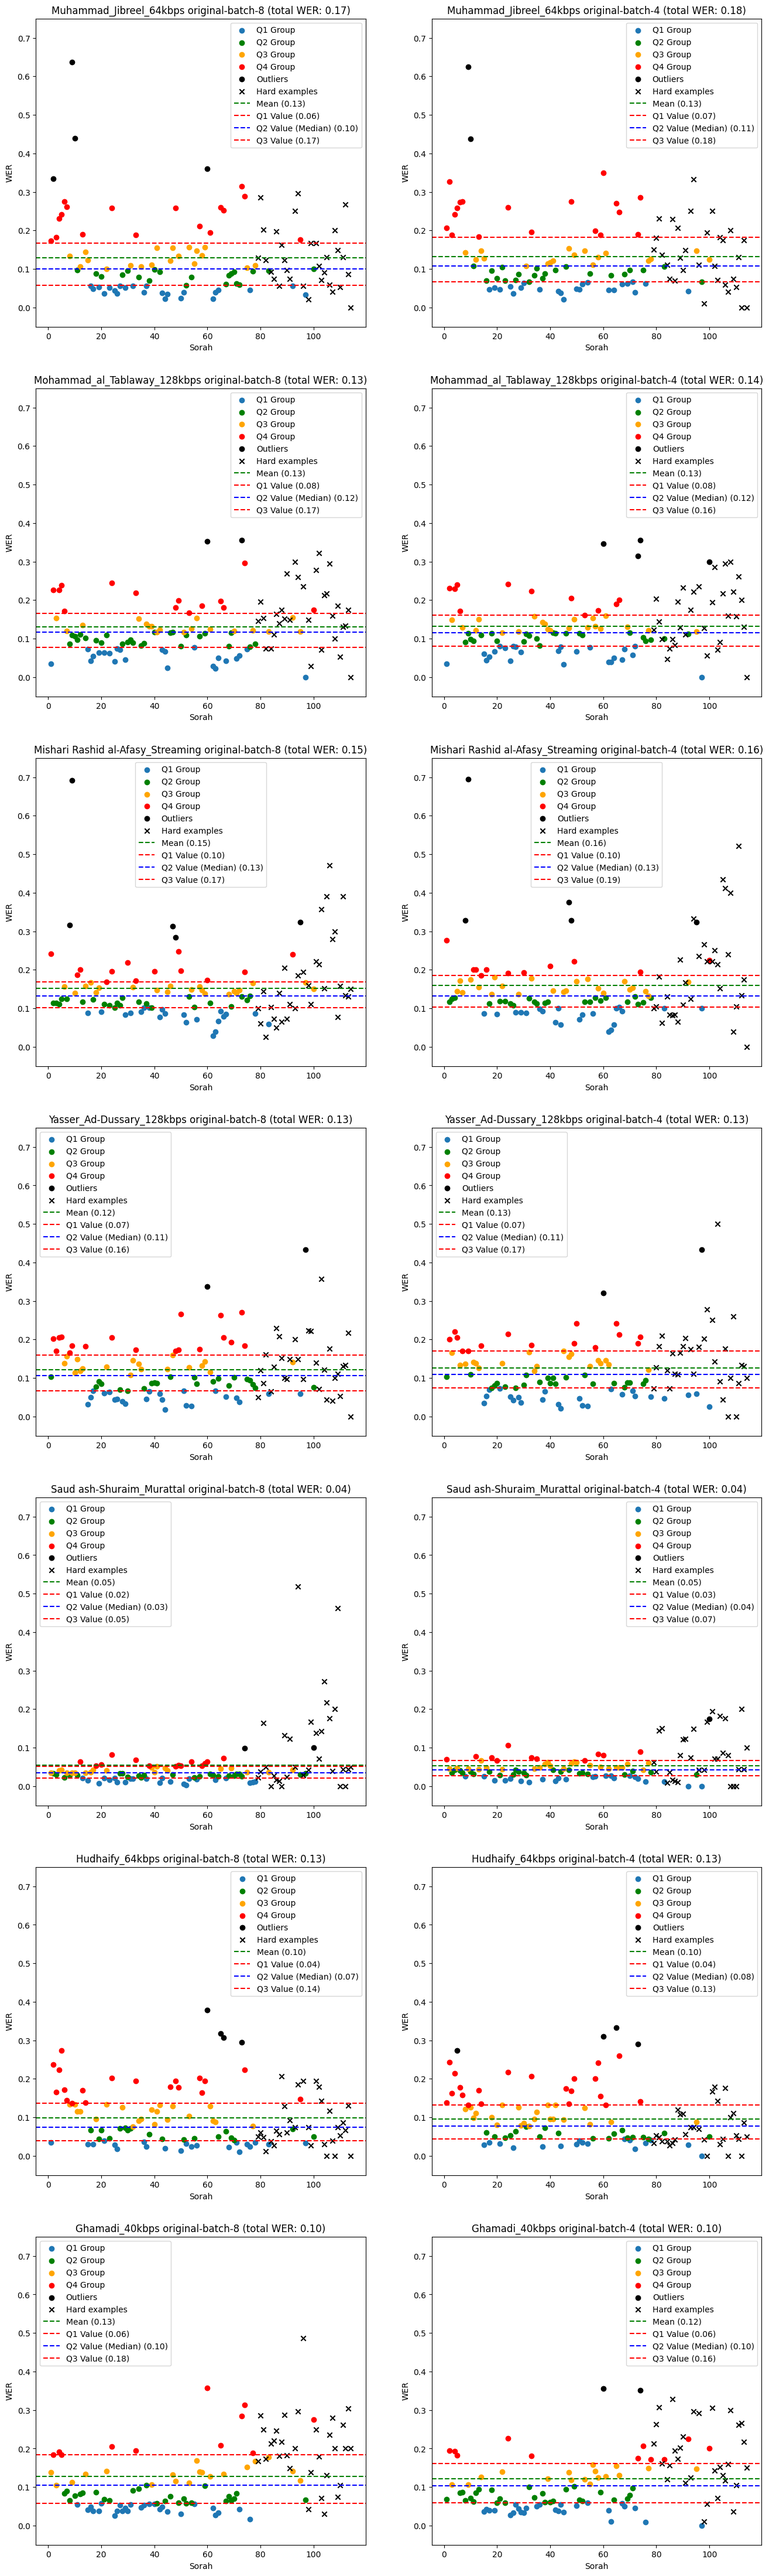
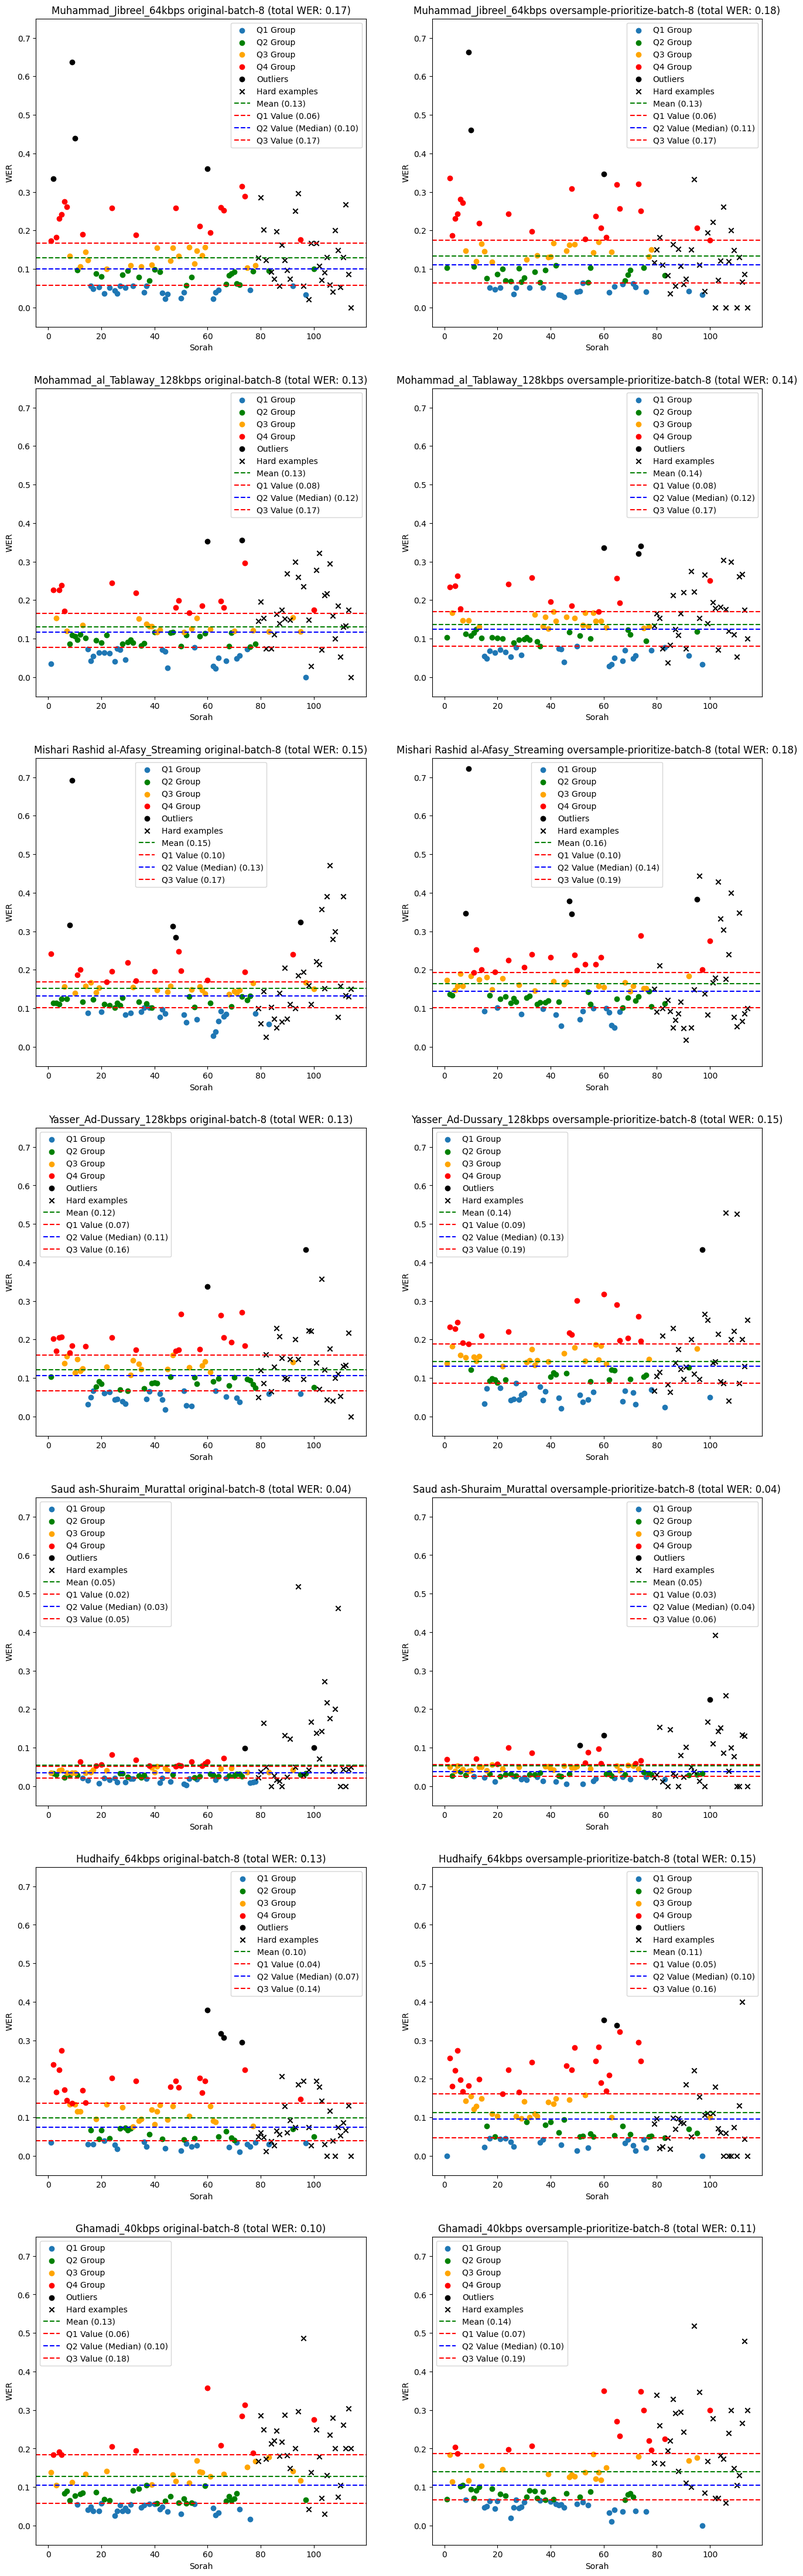
exp-8a: made required changes
* added hard-example sorah names
* combined WER visulizations for the oversampling technique

diff --git a/experiments/08A.md b/experiments/08A.md
@@ -1,6 +1,10 @@
 # Experiment 8: To Oversample or Not To Oversample
 
-Auther: Omar Tarek
+_Sat May 25 07:09:04 PM EEST 2024_
+
+Author: Omar Tarek
+
+Signed-off: Abdulrhmn Ghanem
 
 ## Objective
 
@@ -28,7 +32,39 @@ Auther: Omar Tarek
 
     (any sorah that has WER above Q3 + 1.5 * IQR)
 
-* Only sorahs **from 77 to 114** have been considered (not all hard examples). So whenever hard examples are mentioned in this document it means hard examples **from 77 to 114 only**.
+* Only sorahs **from 77 to 114** have been considered (not all hard examples). So whenever hard examples are mentioned in this document it means hard examples **from 77 to 114 only**. In this experiment the hard examples are:
+
+- النازعات
+- عبس
+- التكوير
+- الإنفطار
+- الإنشقاق
+- البروج
+- الطارق
+- الأعلى
+- الغاشية
+- الفجر
+- البلد
+- الشمس
+- الضحى
+- الشرح
+- العلق
+- البينة
+- الزلزلة
+- القارعة
+- التكاثر
+- العصر
+- الهمزة
+- الفيل
+- قريش
+- الماعون
+- الكوثر
+- الكافرون
+- النصر
+- المسد
+- الإخلاص
+- الفلق
+- الناس
 
 * Here is [the notebook](https://colab.research.google.com/drive/1552xrPwDXR2n2V_36MhTNph1foPHlGyA?usp=sharing) used for identifying hard examples **from 77 to 114**.
 
@@ -95,7 +131,7 @@ Auther: Omar Tarek
 
 * All of those tranformations are **deterministic** except **PitchShift** (it has a range of values **[-2, 3]**).
 
-* Augmentation is done using [audiomentations library [2]]("https://github.com/iver56/audiomentations).
+* Augmentation is done using [**audiomentations library** [2]]("https://github.com/iver56/audiomentations).
 
 
 ### 6. Use a smaller batch size.
@@ -157,7 +193,25 @@ Auther: Omar Tarek
     <span style="color: #888888;"><em>Figure 08A3</em>: Visualization of oversampling the hard examples compared to the normal training strategy</span>
 </p>
 
+<p align="center">
+    <img src="./media/08A4.png" alt="Visualization of oversampling the hard examples compared to the normal training strategy (all sheikhs combined)">
+</p>
+
+<p align="center">
+    <span style="color: #888888;"><em>Figure 08A4</em>: Visualization of oversampling the hard examples compared to the normal training strategy (all sheikhs combined)</span>
+</p>
+
+
 * Oversampling hard examples reduced the WER of those examples without affecting the overall WER results.
+
+<p align="center">
+    <img src="./media/08A5.png" alt="Visualization of the average WER of all sheikhs comparing the oversampling technique (After) with the normal training strategy (Before)">
+</p>
+
+<p align="center">
+    <span style="color: #888888;"><em>Figure 08A5</em>: Visualization of the average WER of all sheikhs comparing the oversampling technique (After) with the normal training strategy (Before)</span>
+</p>
+
 
 * Here is [a notebook](https://colab.research.google.com/drive/1JtKyiKnXlysP5bKaX8cgkl756ZXfcNmw?usp=sharing) that represnts the WER raw data.
 
@@ -165,11 +219,11 @@ Auther: Omar Tarek
 
 
 <p align="center">
-    <img src="./media/08A4.png" alt="Visualization of oversampling and prioritizing the hard examples compared to the normal training strategy">
+    <img src="./media/08A6.png" alt="Visualization of oversampling and prioritizing the hard examples compared to the normal training strategy">
 </p>
 
 <p align="center">
-    <span style="color: #888888;"><em>Figure 08A4</em>: Visualization of oversampling and prioritizing the hard examples compared to the normal training strategy</span>
+    <span style="color: #888888;"><em>Figure 08A6</em>: Visualization of oversampling and prioritizing the hard examples compared to the normal training strategy</span>
 </p>
 
 * **Adding prioritization** to the oversampling technique **made things worse**, by raising the WER of the overall test set and **vanishing the improvements** of WER of those hard examples that were achieved when using the oversampling technique **solely**.
@@ -179,11 +233,11 @@ Auther: Omar Tarek
 ### 5. Augment only the hard examples.
 
 <p align="center">
-    <img src="./media/08A5.png" alt="Visualization of augmenting the hard examples compared to the normal training strategy">
+    <img src="./media/08A7.png" alt="Visualization of augmenting the hard examples compared to the normal training strategy">
 </p>
 
 <p align="center">
-    <span style="color: #888888;"><em>Figure 08A5</em>: Visualization of augmenting the hard examples compared to the normal training strategy</span>
+    <span style="color: #888888;"><em>Figure 08A7</em>: Visualization of augmenting the hard examples compared to the normal training strategy</span>
 </p>
 
 * There are mixed results. Reduction of the WER of hard examples were achieved in ex: `Muhammad_Jibreel_64kbps`, `Mohammad_al_Tablaway_128kbps` and `Saud ash-Shuraim_Murattal` results while there is a raise of the WER of hard examples in `Yasser_Ad-Dussary_128kbps` and `Ghamadi_40kbps` results.
@@ -196,11 +250,11 @@ While there was a limited to no negative impact on the overall WER for some othe
 ### 6. Use a smaller batch size.
 
 <p align="center">
-    <img src="./media/08A6.png" alt="Visualization of using smaller batch size (batch size is 4) compared to the normal strategy (batch size is 8)">
+    <img src="./media/08A8.png" alt="Visualization of using smaller batch size (batch size is 4) compared to the normal strategy (batch size is 8)">
 </p>
 
 <p align="center">
-    <span style="color: #888888;"><em>Figure 08A6</em>: Visualization of using smaller batch size (batch size is 4) compared to the normal strategy (batch size is 8)</span>
+    <span style="color: #888888;"><em>Figure 08A8</em>: Visualization of using smaller batch size (batch size is 4) compared to the normal strategy (batch size is 8)</span>
 </p>
 
 * Using a smaller batch size (**4 instead of 8**) reduced the WER of the hard examples for `Saud ash-Shuraim_Murattal` but **this is not a pattern**, therefore this technique is **not effective**.
